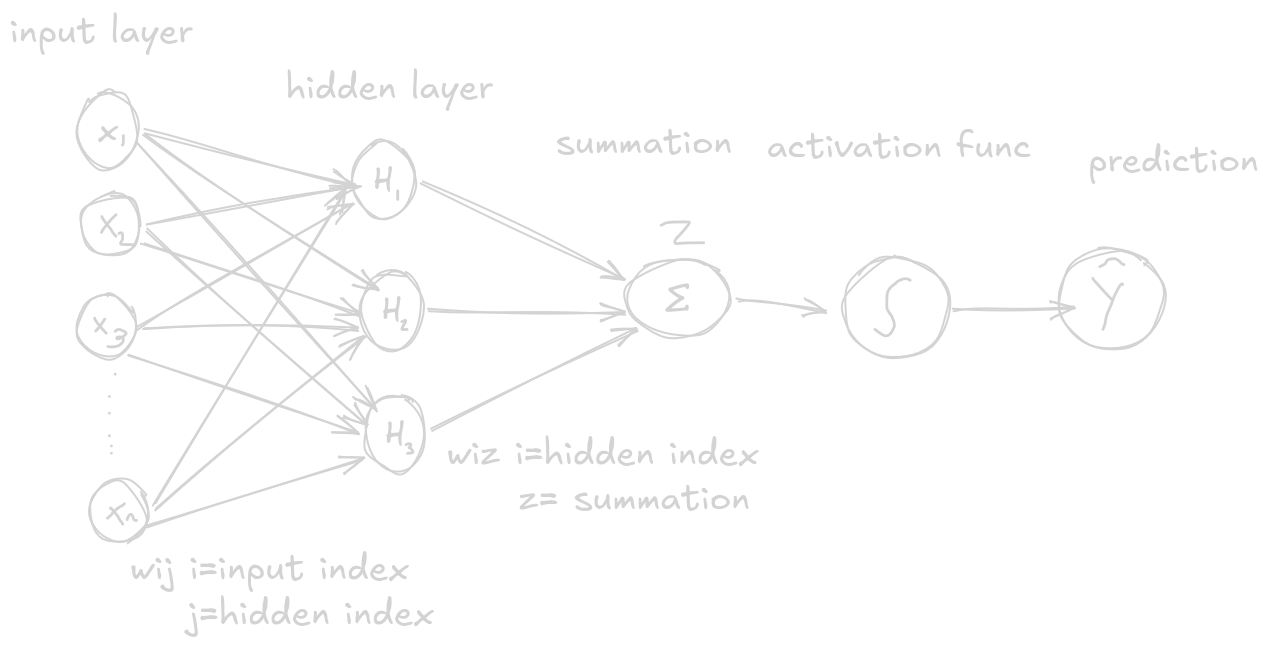
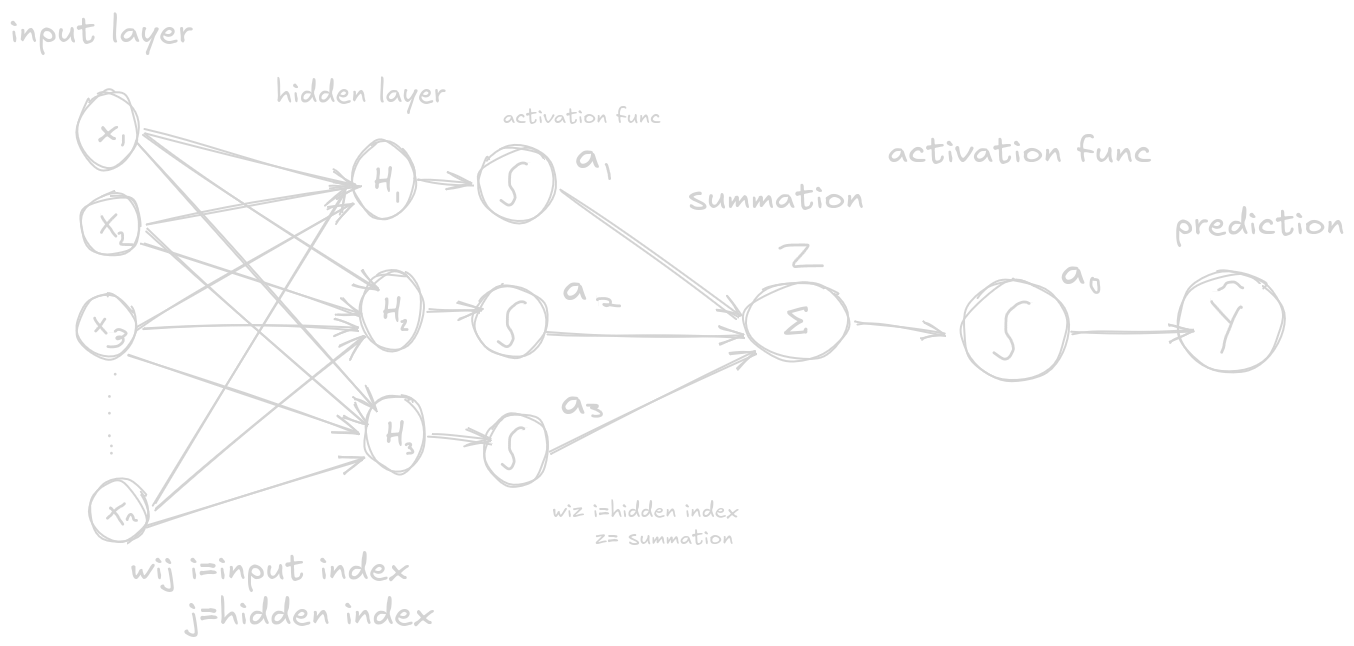
feat:chain rule

diff --git a/content/posts/weekofml/index.md b/content/posts/weekofml/index.md
@@ -173,6 +173,33 @@ The core idea is
 - Backward Pass: Error flows backwards → calculate how much to fix each weight
 - Update Weights: Adjust weights to reduce error
 
+### The Chain rule:
+
+The chain rule tells you how to find the total effect when something changes through multiple steps.
+
+In one sentence: If A affects B, and B affects C, then the total effect of A on C = (effect of A on B) × (effect of B on C)
+Lets take a component from our MLP, lets see how weight $w_1z$ affects cost function.
+
+![chainrule](/imgs/chainrule.png)
+
+The cost depends on w₁z through this path: w₁z → z → a₂ → a₀ → C
+
+$$\frac{\partial C}{\partial w_{1z}} = \frac{\partial C}{\partial a_0} \cdot \frac{\partial a_0}{\partial z} \cdot \frac{\partial z}{\partial w_{1z}}$$
+
+**Each term:**
+
+- $\frac{\partial z}{\partial w_{1z}} = a_1$ (because $z=w_1z*a_1+b_z$)
+- $\frac{\partial a_0}{\partial z} = \sigma'(z)$ (activation slope)
+- $\frac{\partial C}{\partial a_0} = 2(a_0 - y)$ (because $C=(a_0-y)^2$)
+
+**Final gradient:**
+$$\frac{\partial C}{\partial w_{1z}} = (a_0 - y) \cdot \sigma'(z) \cdot a_1$$
+We can apply chain rule according to bias and take out gradient in respect for it.
+Similarly we can derive for $w_11 Let's take component.
+![chainrule](/imgs/chainrule2.png)
+**Path**: x₁ → H → a₁ → z → a₀ → C 
+$$\frac{\partial C}{\partial w_{11}} = \frac{\partial C}{\partial a_0} \cdot \frac{\partial a_0}{\partial z} \cdot \frac{\partial z}{\partial a_1} \cdot \frac{\partial a_1}{\partial H} \cdot \frac{\partial H}{\partial w_{11}}$$
+
 ## Decision Trees (1986)
 
 ## Support Vector Machine (1992-1995)
